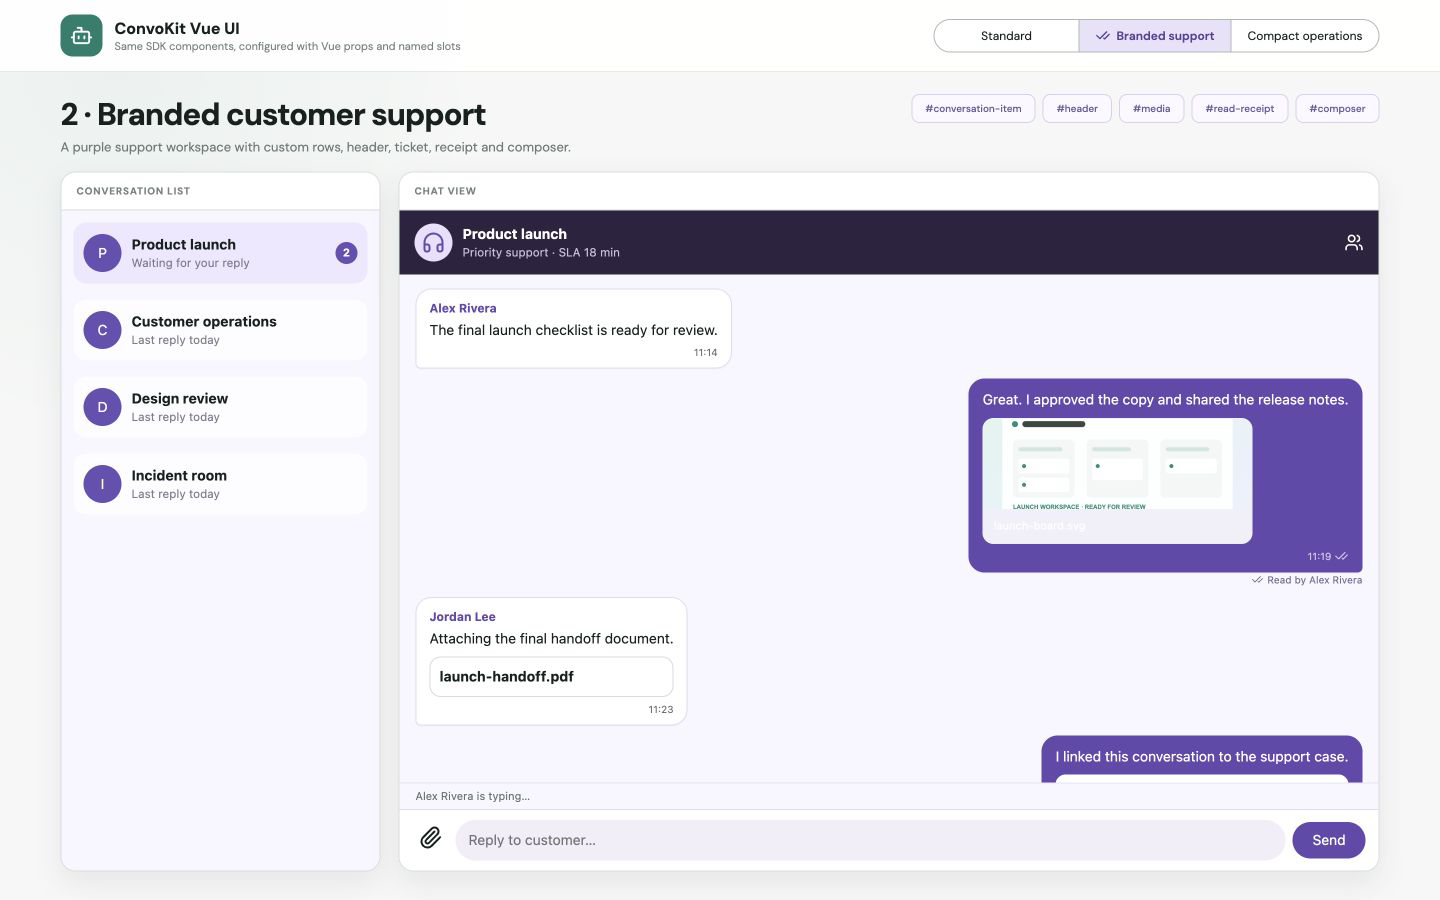
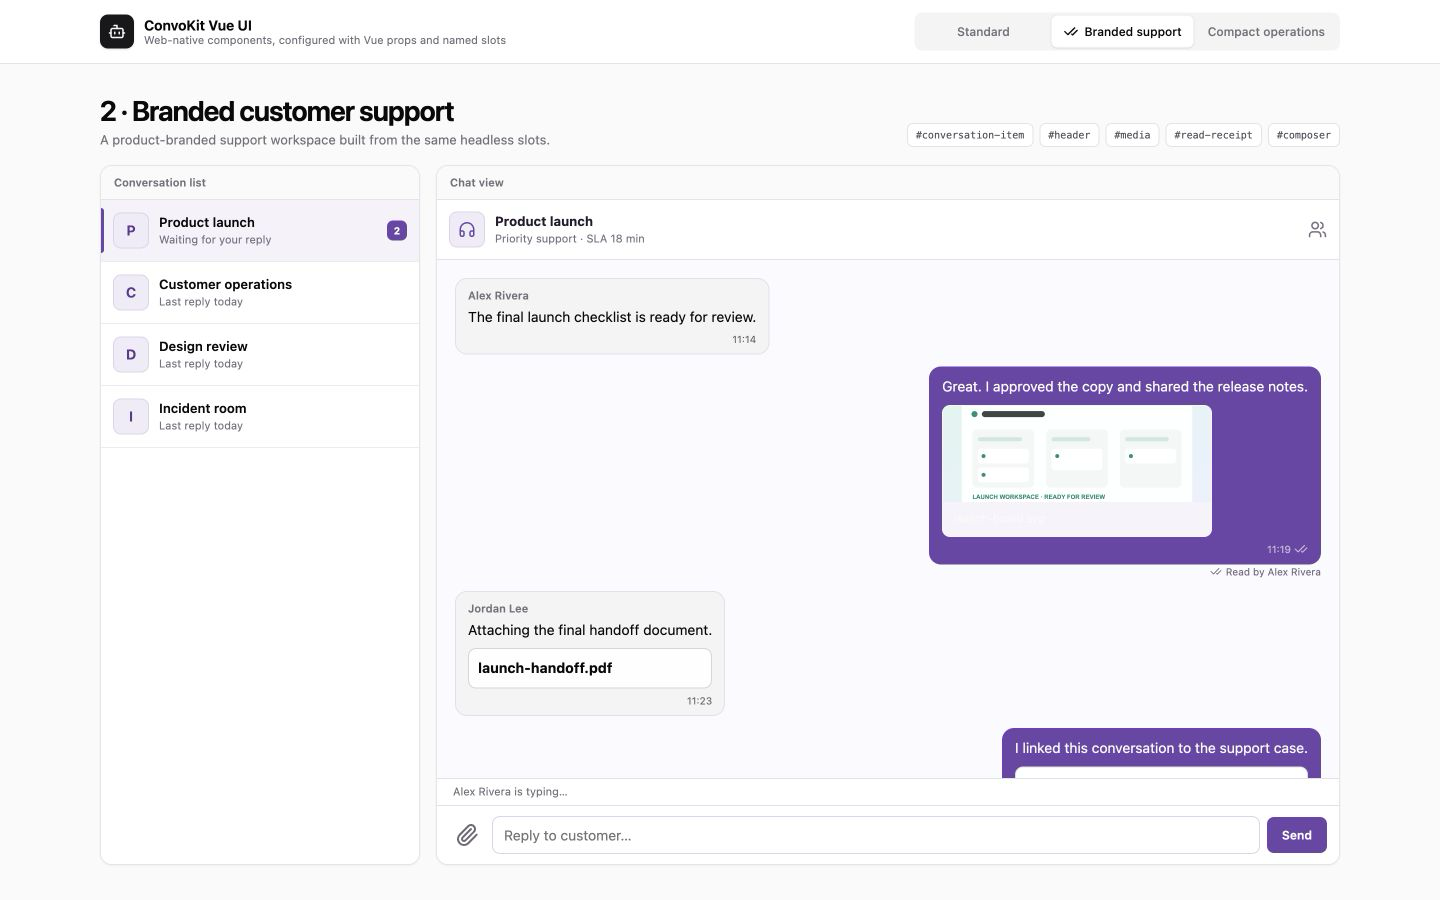
feat: showcase web-native Vue components

diff --git a/src/styles.css b/src/styles.css
@@ -1,9 +1,7 @@
-@import url('https://fonts.googleapis.com/css2?family=DM+Sans:wght@400;500;600;700&display=swap');
-
 :root {
-  color: #17211f;
-  background: #f4f6f5;
-  font-family: 'DM Sans', system-ui, sans-serif;
+  color: #09090b;
+  background: #fafafa;
+  font-family: ui-sans-serif, system-ui, -apple-system, BlinkMacSystemFont, "Segoe UI", sans-serif;
   font-synthesis: none;
   text-rendering: optimizeLegibility;
 }
@@ -13,106 +11,94 @@ body { margin: 0; min-width: 320px; min-height: 100vh; }
 button, input { font: inherit; }
 button { color: inherit; }
 
-.showcase {
-  min-height: 100vh;
-  padding: 0 4.2vw 48px;
-  background:
-    radial-gradient(circle at 8% 7%, rgba(20, 143, 120, .055), transparent 23%),
-    #f5f7f6;
-}
-
-.showcase__header {
-  display: flex;
-  align-items: center;
-  justify-content: space-between;
-  min-height: 72px;
-  margin-inline: -4.2vw;
-  padding-inline: 4.2vw;
-  border-bottom: 1px solid #e5e9e7;
-  background: rgba(255, 255, 255, .92);
-}
-
-.brand { display: flex; align-items: center; gap: 12px; }
-.brand__mark { display: grid; width: 42px; height: 42px; place-items: center; border-radius: 12px; background: #147f6b; color: white; }
-.brand__mark svg { width: 23px; }
+.showcase { min-height: 100vh; padding: 0 max(24px, calc((100vw - 1240px) / 2)) 48px; background: #fafafa; }
+.showcase__header { display: flex; align-items: center; justify-content: space-between; min-height: 64px; margin-inline: min(-24px, calc((1240px - 100vw) / 2)); padding-inline: max(24px, calc((100vw - 1240px) / 2)); border-bottom: 1px solid #e4e4e7; background: rgba(255,255,255,.94); backdrop-filter: blur(12px); }
+.brand { display: flex; align-items: center; gap: 10px; }
+.brand__mark { display: grid; width: 34px; height: 34px; place-items: center; border-radius: 8px; background: #18181b; color: #fafafa; box-shadow: 0 1px 2px rgb(0 0 0/.12); }
+.brand__mark svg { width: 18px; }
 .brand > span:last-child { display: grid; }
-.brand strong { font-size: 16px; }
-.brand small { color: #77827f; font-size: 11px; }
+.brand strong { font-size: 14px; font-weight: 650; letter-spacing: -.01em; }
+.brand small { color: #71717a; font-size: 11px; }
 
-.variant-tabs { display: flex; overflow: hidden; border: 1px solid #aeb8b5; border-radius: 999px; background: white; }
-.variant-tabs button { display: flex; align-items: center; justify-content: center; gap: 6px; min-width: 145px; padding: 8px 16px; border: 0; border-right: 1px solid #aeb8b5; background: transparent; cursor: pointer; font-size: 12px; }
-.variant-tabs button:last-child { border-right: 0; }
-.variant-tabs button[data-active] { background: #dceee9; color: #176f60; font-weight: 600; }
-.showcase--branded .variant-tabs button[data-active] { background: #e9e2fb; color: #5b4297; }
+.variant-tabs { display: inline-flex; align-items: center; gap: 2px; padding: 3px; border-radius: 8px; background: #f4f4f5; color: #71717a; }
+.variant-tabs button { display: inline-flex; align-items: center; justify-content: center; gap: 6px; min-width: 132px; min-height: 32px; padding: 6px 12px; border: 0; border-radius: 6px; background: transparent; cursor: pointer; font-size: 12px; font-weight: 500; }
+.variant-tabs button:hover { color: #18181b; }
+.variant-tabs button[data-active] { background: #fff; color: #09090b; box-shadow: 0 1px 2px rgb(0 0 0/.08), 0 0 0 1px rgb(0 0 0/.03); }
 
-.showcase__intro { display: flex; align-items: flex-start; justify-content: space-between; gap: 30px; padding: 22px 0 16px; }
-.showcase__intro h1 { margin: 0; font-size: clamp(22px, 2.2vw, 31px); letter-spacing: -.03em; }
-.showcase__intro p { margin: 4px 0 0; color: #6f7a77; font-size: 13px; }
-.prop-badges { display: flex; flex-wrap: wrap; justify-content: flex-end; gap: 7px; max-width: 58%; }
-.prop-badges code { padding: 7px 13px; border: 1px solid #ccd5d2; border-radius: 8px; background: rgba(255,255,255,.65); color: #60706b; font: 500 10px 'DM Sans', sans-serif; }
-.showcase--branded .prop-badges code { border-color: #d9d0ef; background: #fbf9ff; color: #6b5997; }
+.showcase__intro { display: flex; align-items: flex-end; justify-content: space-between; gap: 32px; padding: 30px 0 18px; }
+.showcase__intro h1 { margin: 0; font-size: clamp(22px, 2vw, 28px); font-weight: 650; letter-spacing: -.035em; }
+.showcase__intro p { margin: 5px 0 0; color: #71717a; font-size: 13px; }
+.prop-badges { display: flex; flex-wrap: wrap; justify-content: flex-end; gap: 6px; max-width: 56%; }
+.prop-badges code { padding: 5px 8px; border: 1px solid #e4e4e7; border-radius: 6px; background: #fff; color: #52525b; font: 500 10px ui-monospace, SFMono-Regular, Menlo, monospace; }
 
-.component-grid { display: grid; grid-template-columns: minmax(260px, 320px) minmax(0, 1fr); gap: 18px; height: min(700px, calc(100vh - 172px)); min-height: 520px; }
-.component-card { display: flex; min-width: 0; min-height: 0; flex-direction: column; overflow: hidden; border: 1px solid #d8dedc; border-radius: 15px; background: white; box-shadow: 0 12px 28px rgba(28, 42, 38, .08); }
-.component-label { flex: 0 0 auto; padding: 12px 15px; border-bottom: 1px solid #d8dedc; color: #77817e; font-size: 10px; font-weight: 700; letter-spacing: .08em; text-transform: uppercase; }
-.component-card > .ckui { flex: 1; border: 0; border-radius: 0; }
-
+.component-grid { display: grid; grid-template-columns: minmax(270px, 320px) minmax(0,1fr); gap: 16px; height: min(700px, calc(100vh - 166px)); min-height: 520px; }
+.component-card { display: flex; min-width: 0; min-height: 0; flex-direction: column; overflow: hidden; border: 1px solid #e4e4e7; border-radius: 12px; background: #fff; box-shadow: 0 1px 2px rgb(0 0 0/.04); }
+.component-label { flex: 0 0 auto; padding: 10px 13px; border-bottom: 1px solid #e4e4e7; background: #fafafa; color: #71717a; font-size: 11px; font-weight: 600; }
+.component-card > .ckui { flex: 1; border: 0; border-radius: 0; box-shadow: none; }
 .showcase .ckui-media-card--image { max-width: 270px; }
-.showcase .ckui-media-card--image img { max-height: 90px; }
+.showcase .ckui-media-card--image img { max-height: 96px; }
 
-.branded-row { display: grid; grid-template-columns: 38px minmax(0,1fr) auto; align-items: center; gap: 10px; width: 100%; min-height: 61px; padding: 8px 10px; border: 0; border-radius: 13px; background: rgba(255,255,255,.76); text-align: left; cursor: pointer; }
-.branded-row[data-selected] { background: #eee8ff; }
-.branded-row__avatar { display: grid; width: 38px; height: 38px; place-items: center; border-radius: 999px; background: #6750b4; color: white; }
+.branded-row { position: relative; display: grid; grid-template-columns: 36px minmax(0,1fr) auto; align-items: center; gap: 10px; width: 100%; min-height: 62px; padding: 9px 12px; border: 0; border-bottom: 1px solid #eeeaf5; background: #fff; text-align: left; cursor: pointer; }
+.branded-row:hover { background: #faf9fc; }
+.branded-row[data-selected] { background: #f5f2fb; }
+.branded-row[data-selected]::before { position: absolute; inset-block: 8px; left: 0; width: 3px; border-radius: 0 3px 3px 0; background: #6d45a8; content: ""; }
+.branded-row__avatar { display: grid; width: 36px; height: 36px; place-items: center; border: 1px solid #ddd4eb; border-radius: 8px; background: #f1ecf8; color: #5f388f; font-weight: 650; }
 .branded-row > span:nth-child(2) { display: grid; min-width: 0; }
 .branded-row strong, .branded-row small { overflow: hidden; text-overflow: ellipsis; white-space: nowrap; }
-.branded-row small { color: #817b8e; }
-.branded-row b { display: grid; width: 22px; height: 22px; place-items: center; border-radius: 999px; background: #6750b4; color: white; font-size: 11px; }
+.branded-row strong { font-size: 13px; font-weight: 600; }
+.branded-row small { color: #787181; font-size: 11px; }
+.branded-row b { display: grid; min-width: 20px; height: 20px; padding-inline: 5px; place-items: center; border-radius: 6px; background: #6d45a8; color: #fff; font-size: 10px; }
 
-.branded-header { display: grid; grid-template-columns: 38px minmax(0,1fr) auto; align-items: center; gap: 10px; min-height: 64px; padding: 9px 15px; background: #2d2341; color: white; }
-.branded-header > span { display: grid; width: 38px; height: 38px; place-items: center; border-radius: 999px; background: #e8e0ff; color: #6548ad; }
+.branded-header { display: grid; grid-template-columns: 36px minmax(0,1fr) auto; align-items: center; gap: 10px; min-height: 60px; padding: 8px 12px; border-bottom: 1px solid #e5dff0; background: #fff; color: #241c2e; }
+.branded-header > span { display: grid; width: 36px; height: 36px; place-items: center; border: 1px solid #ddd4eb; border-radius: 8px; background: #f1ecf8; color: #6d45a8; }
+.branded-header > span svg { width: 18px; }
 .branded-header > div { display: grid; }
-.branded-header small { color: #c8bfdb; }
-.branded-receipt { display: flex; align-items: center; gap: 4px; color: #756992; font-size: 10px; }
-.ticket-card { display: grid; grid-template-columns: auto minmax(0,1fr) auto; align-items: center; gap: 9px; min-width: 260px; padding: 9px; border-radius: 10px; background: #fff; color: #2b2634; }
+.branded-header strong { font-size: 13px; }
+.branded-header small { color: #7a7184; font-size: 11px; }
+.branded-header > svg { color: #7a7184; }
+.branded-receipt { display: flex; align-items: center; gap: 4px; color: #746781; font-size: 10px; }
+.ticket-card { display: grid; grid-template-columns: auto minmax(0,1fr) auto; align-items: center; gap: 9px; min-width: 260px; padding: 9px; border: 1px solid #e2dbea; border-radius: 8px; background: #fff; color: #2b2634; }
 .ticket-card > span { display: grid; }
 .ticket-card small { color: #807a8b; }
-.ticket-card button { padding: 6px 10px; border: 1px solid #cfc8df; border-radius: 7px; background: #faf8ff; color: #6548ad; font-size: 10px; text-transform: uppercase; }
-.branded-composer { display: flex; align-items: center; gap: 7px; padding: 10px 13px; border-top: 1px solid #e2dcf2; background: white; }
-.branded-composer input { flex: 1; min-width: 0; padding: 10px 13px; border: 0; border-radius: 22px; outline: none; background: #f1eef9; }
-.branded-composer button { border: 0; background: transparent; cursor: pointer; }
-.branded-composer button:last-child { padding: 8px 20px; border-radius: 18px; background: #6548ad; color: white; }
+.ticket-card button { padding: 5px 9px; border: 1px solid #d4c9e3; border-radius: 6px; background: #fff; color: #6548ad; font-size: 10px; font-weight: 600; }
+.branded-composer { display: flex; align-items: center; gap: 7px; padding: 10px 12px; border-top: 1px solid #e5dff0; background: #fff; }
+.branded-composer input { flex: 1; min-width: 0; height: 38px; padding: 8px 11px; border: 1px solid #ddd4e8; border-radius: 8px; outline: none; background: #fff; }
+.branded-composer button { display: grid; min-height: 36px; place-items: center; border: 0; border-radius: 7px; background: transparent; cursor: pointer; }
+.branded-composer button:first-child { width: 36px; color: #6f6878; }
+.branded-composer button:last-child { padding: 7px 15px; background: #6d45a8; color: #fff; font-size: 12px; font-weight: 600; }
 
-.compact-row { display: grid; grid-template-columns: 28px minmax(0,1fr) auto; align-items: center; gap: 8px; width: 100%; padding: 5px 6px; border: 0; background: transparent; text-align: left; cursor: pointer; }
-.compact-row > span { display: grid; width: 26px; height: 26px; place-items: center; border-radius: 999px; background: #e5efec; color: #4d7168; font-size: 9px; }
-.compact-row strong { font-size: 11px; }
-.compact-row > svg { color: #16826f; }
-.compact-header { display: flex; align-items: center; gap: 10px; min-height: 50px; padding: 8px 13px; border-bottom: 1px solid #dce2e0; background: white; }
-.compact-header strong { flex: 1; }
-.compact-header > span { padding: 5px 11px; border: 1px solid #c9d9d4; border-radius: 8px; color: #3b6e62; font-size: 9px; text-transform: uppercase; }
-.compact-message { display: grid; grid-template-columns: 48px minmax(0,1fr) auto; gap: 8px; align-items: baseline; padding: 3px 8px; font-size: 10px; }
-.compact-message strong { color: #4e6962; font-size: 8px; text-transform: uppercase; }
-.compact-message time { color: #8a9491; font-size: 8px; }
-.compact-typing { min-height: 22px; padding: 4px 10px; border-top: 1px solid #d7e5e1; background: #edf5f2; color: #55756d; font-size: 9px; }
-.compact-composer { display: flex; align-items: center; min-height: 48px; padding: 6px 9px; border-top: 1px solid #dce2e0; background: white; }
-.compact-composer input { flex: 1; border: 0; outline: none; }
-.compact-composer button { display: grid; width: 36px; height: 36px; place-items: center; border: 0; border-radius: 999px; background: #177d69; color: white; cursor: pointer; }
-.compact-composer svg { width: 16px; }
+.compact-row { display: grid; grid-template-columns: 26px minmax(0,1fr) auto; align-items: center; gap: 8px; width: 100%; min-height: 38px; padding: 5px 8px; border: 0; border-bottom: 1px solid #e4e4e7; background: #fff; text-align: left; cursor: pointer; }
+.compact-row:hover { background: #fafafa; }
+.compact-row > span { display: grid; width: 26px; height: 26px; place-items: center; border: 1px solid #e4e4e7; border-radius: 6px; background: #f4f4f5; color: #52525b; font-size: 9px; }
+.compact-row strong { font-size: 11px; font-weight: 600; }
+.compact-row > svg { color: #16a34a; }
+.compact-header { display: flex; align-items: center; gap: 9px; min-height: 48px; padding: 7px 11px; border-bottom: 1px solid #e4e4e7; background: #fff; }
+.compact-header strong { flex: 1; font-size: 12px; }
+.compact-header > span { padding: 3px 7px; border: 1px solid #bbf7d0; border-radius: 6px; background: #f0fdf4; color: #15803d; font-size: 9px; font-weight: 600; }
+.compact-message { display: grid; grid-template-columns: 48px minmax(0,1fr) auto; gap: 8px; align-items: baseline; padding: 4px 8px; border-bottom: 1px solid #f1f1f2; font-size: 10px; }
+.compact-message strong { color: #52525b; font-size: 9px; font-weight: 600; }
+.compact-message time { color: #a1a1aa; font-size: 8px; }
+.compact-typing { min-height: 23px; padding: 4px 10px; border-top: 1px solid #e4e4e7; background: #fafafa; color: #71717a; font-size: 9px; }
+.compact-composer { display: flex; align-items: center; gap: 7px; min-height: 48px; padding: 6px 8px; border-top: 1px solid #e4e4e7; background: #fff; }
+.compact-composer input { flex: 1; height: 34px; padding-inline: 9px; border: 1px solid #e4e4e7; border-radius: 7px; outline: none; }
+.compact-composer button { display: grid; width: 34px; height: 34px; place-items: center; border: 0; border-radius: 7px; background: #18181b; color: #fff; cursor: pointer; }
+.compact-composer svg { width: 15px; }
 
-.live-layout { display: grid; grid-template-columns: 320px minmax(0,1fr); gap: 16px; height: 100vh; padding: 16px; }
+.live-layout { display: grid; grid-template-columns: 320px minmax(0,1fr); gap: 16px; height: 100vh; padding: 16px; background: #fafafa; }
 .live-layout aside, .live-layout section { min-height: 0; }
-.live-setup { max-width: 640px; margin: 10vh auto; padding: 28px; }
+.live-setup, .live-room { max-width: 540px; margin: 10vh auto; padding: 24px; border: 1px solid #e4e4e7; border-radius: 10px; background: #fff; box-shadow: 0 1px 2px rgb(0 0 0/.04); }
 .live-setup label, .live-room label { display: grid; gap: 6px; }
-.live-setup input, .live-room input { padding: 10px; }
-.live-setup button, .live-room button { margin-top: 12px; padding: 9px 15px; }
-.live-room { display: grid; max-width: 480px; gap: 8px; margin: 15vh auto; padding: 28px; }
-.live-room p { margin: 0; color: #66736f; line-height: 1.5; }
+.live-setup input, .live-room input { height: 38px; padding: 8px 10px; border: 1px solid #e4e4e7; border-radius: 7px; }
+.live-setup button, .live-room button { margin-top: 12px; padding: 8px 13px; border: 0; border-radius: 7px; background: #18181b; color: #fff; }
+.live-room { display: grid; gap: 8px; }
+.live-room p { margin: 0; color: #71717a; line-height: 1.5; }
 
 @media (max-width: 860px) {
   .showcase { padding-inline: 18px; }
   .showcase__header { align-items: flex-start; flex-direction: column; gap: 12px; margin-inline: -18px; padding: 14px 18px; }
   .variant-tabs { width: 100%; }
   .variant-tabs button { flex: 1; min-width: 0; padding-inline: 8px; }
-  .showcase__intro { flex-direction: column; }
+  .showcase__intro { align-items: flex-start; flex-direction: column; }
   .prop-badges { justify-content: flex-start; max-width: none; }
   .component-grid { grid-template-columns: 1fr; height: auto; }
   .component-card { height: 560px; }
@@ -124,7 +110,7 @@ button { color: inherit; }
 @media (max-width: 520px) {
   .brand small { display: none; }
   .variant-tabs button { font-size: 10px; }
-  .showcase__intro h1 { font-size: 23px; }
-  .prop-badges code { padding: 5px 8px; }
+  .showcase__intro h1 { font-size: 22px; }
+  .prop-badges code { padding: 4px 6px; }
   .component-card--chat { height: 620px; }
 }

diff --git a/src/ShowcaseApp.vue b/src/ShowcaseApp.vue
@@ -18,17 +18,17 @@ const variants: Array<{ id: Variant; label: string }> = [
 const details = {
   standard: {
     number: '1', title: 'Standard components',
-    description: 'Default list rows, header, bubbles, receipts, images, files and composer.',
+    description: 'Neutral, shadcn-inspired defaults for lists, messages, receipts, media and the composer.',
     props: ['onRefresh', 'onAddAttachment', 'readAtByUserId', 'reverseMessages: true'],
   },
   branded: {
     number: '2', title: 'Branded customer support',
-    description: 'A purple support workspace with custom rows, header, ticket, receipt and composer.',
+    description: 'A product-branded support workspace built from the same headless slots.',
     props: ['#conversation-item', '#header', '#media', '#read-receipt', '#composer'],
   },
   compact: {
     number: '3', title: 'Compact operations view',
-    description: 'Dense list and message rendering for dashboards with limited space.',
+    description: 'A restrained data-dense treatment for web dashboards with limited space.',
     props: ['density: compact', '#conversation-item', '#message', '#typing-indicator', 'stickToBottom: false'],
   },
 } satisfies Record<Variant, { number: string; title: string; description: string; props: string[] }>
@@ -43,7 +43,7 @@ const detail = computed(() => details[variant.value])
 const selected = conversations[0]!
 const typing = computed(() => new Set(variant.value === 'standard' ? [] : ['alex']))
 const theme = computed(() => variant.value === 'branded' ? {
-  primary: '#6548ad', background: '#f8f6ff', border: '#e2dcf2', outgoingBubble: '#6548ad',
+  primary: '#6d45a8', background: '#fbfaff', border: '#e5dff0', outgoingBubble: '#6d45a8',
 } : {})
 
 function chooseVariant(next: Variant) {
@@ -68,7 +68,7 @@ function ticketLabel(media: MessageMedia) {
       <header class="showcase__header">
         <div class="brand">
           <span class="brand__mark"><Bot aria-hidden="true" /></span>
-          <span><strong>ConvoKit Vue UI</strong><small>Same SDK components, configured with Vue props and named slots</small></span>
+          <span><strong>ConvoKit Vue UI</strong><small>Web-native components, configured with Vue props and named slots</small></span>
         </div>
         <nav class="variant-tabs" aria-label="Component configuration">
           <button v-for="item in variants" :key="item.id" type="button" :data-active="item.id === variant || undefined" @click="chooseVariant(item.id)">

diff --git a/README.md b/README.md
@@ -24,14 +24,14 @@ Use the selector to compare configurations, or open `?variant=standard`,
 
 ![Standard ConvoKit Vue conversation list and chat components](doc/screenshots/standard-components.png)
 
-Package defaults plus refresh, attachment, read-position, image/file rendering,
-and bottom-anchored messages.
+Web-native, shadcn-inspired package defaults plus refresh, attachment,
+read-position, image/file rendering, and bottom-anchored messages.
 
 ### Branded customer support
 
 ![Branded ConvoKit Vue customer support interface](doc/screenshots/branded-support.png)
 
-A purple support workspace built with the `conversation-item`, `header`,
+A restrained product-branded support workspace built with the `conversation-item`, `header`,
 `media`, `read-receipt`, and `composer` named slots.
 
 ### Compact operations
